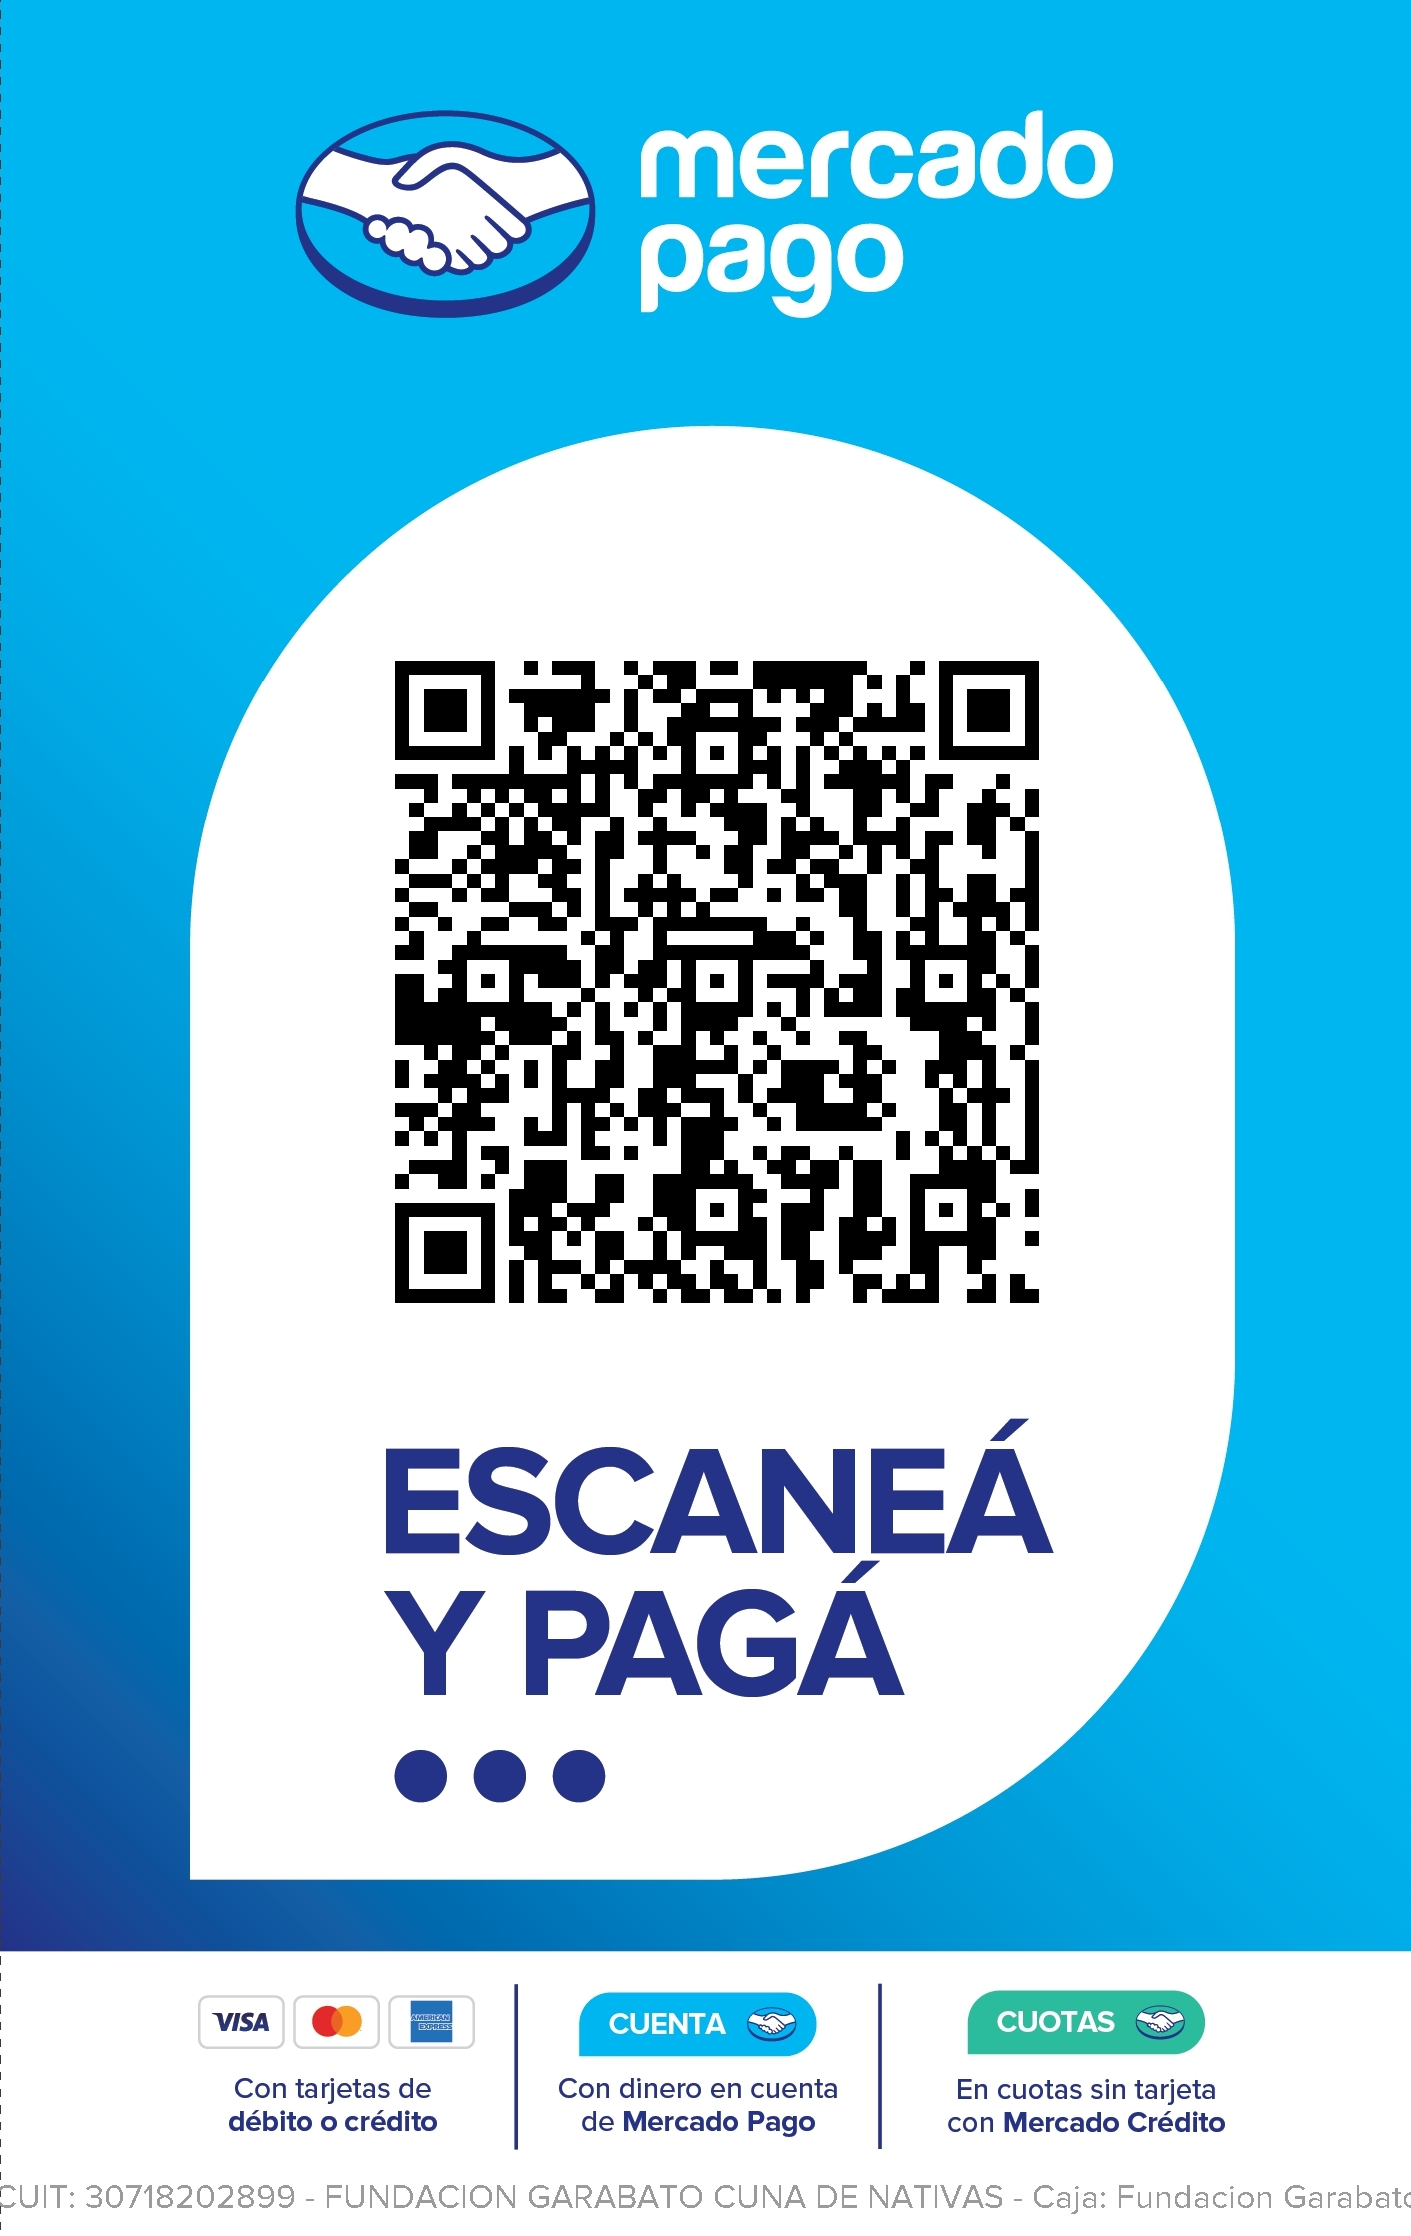
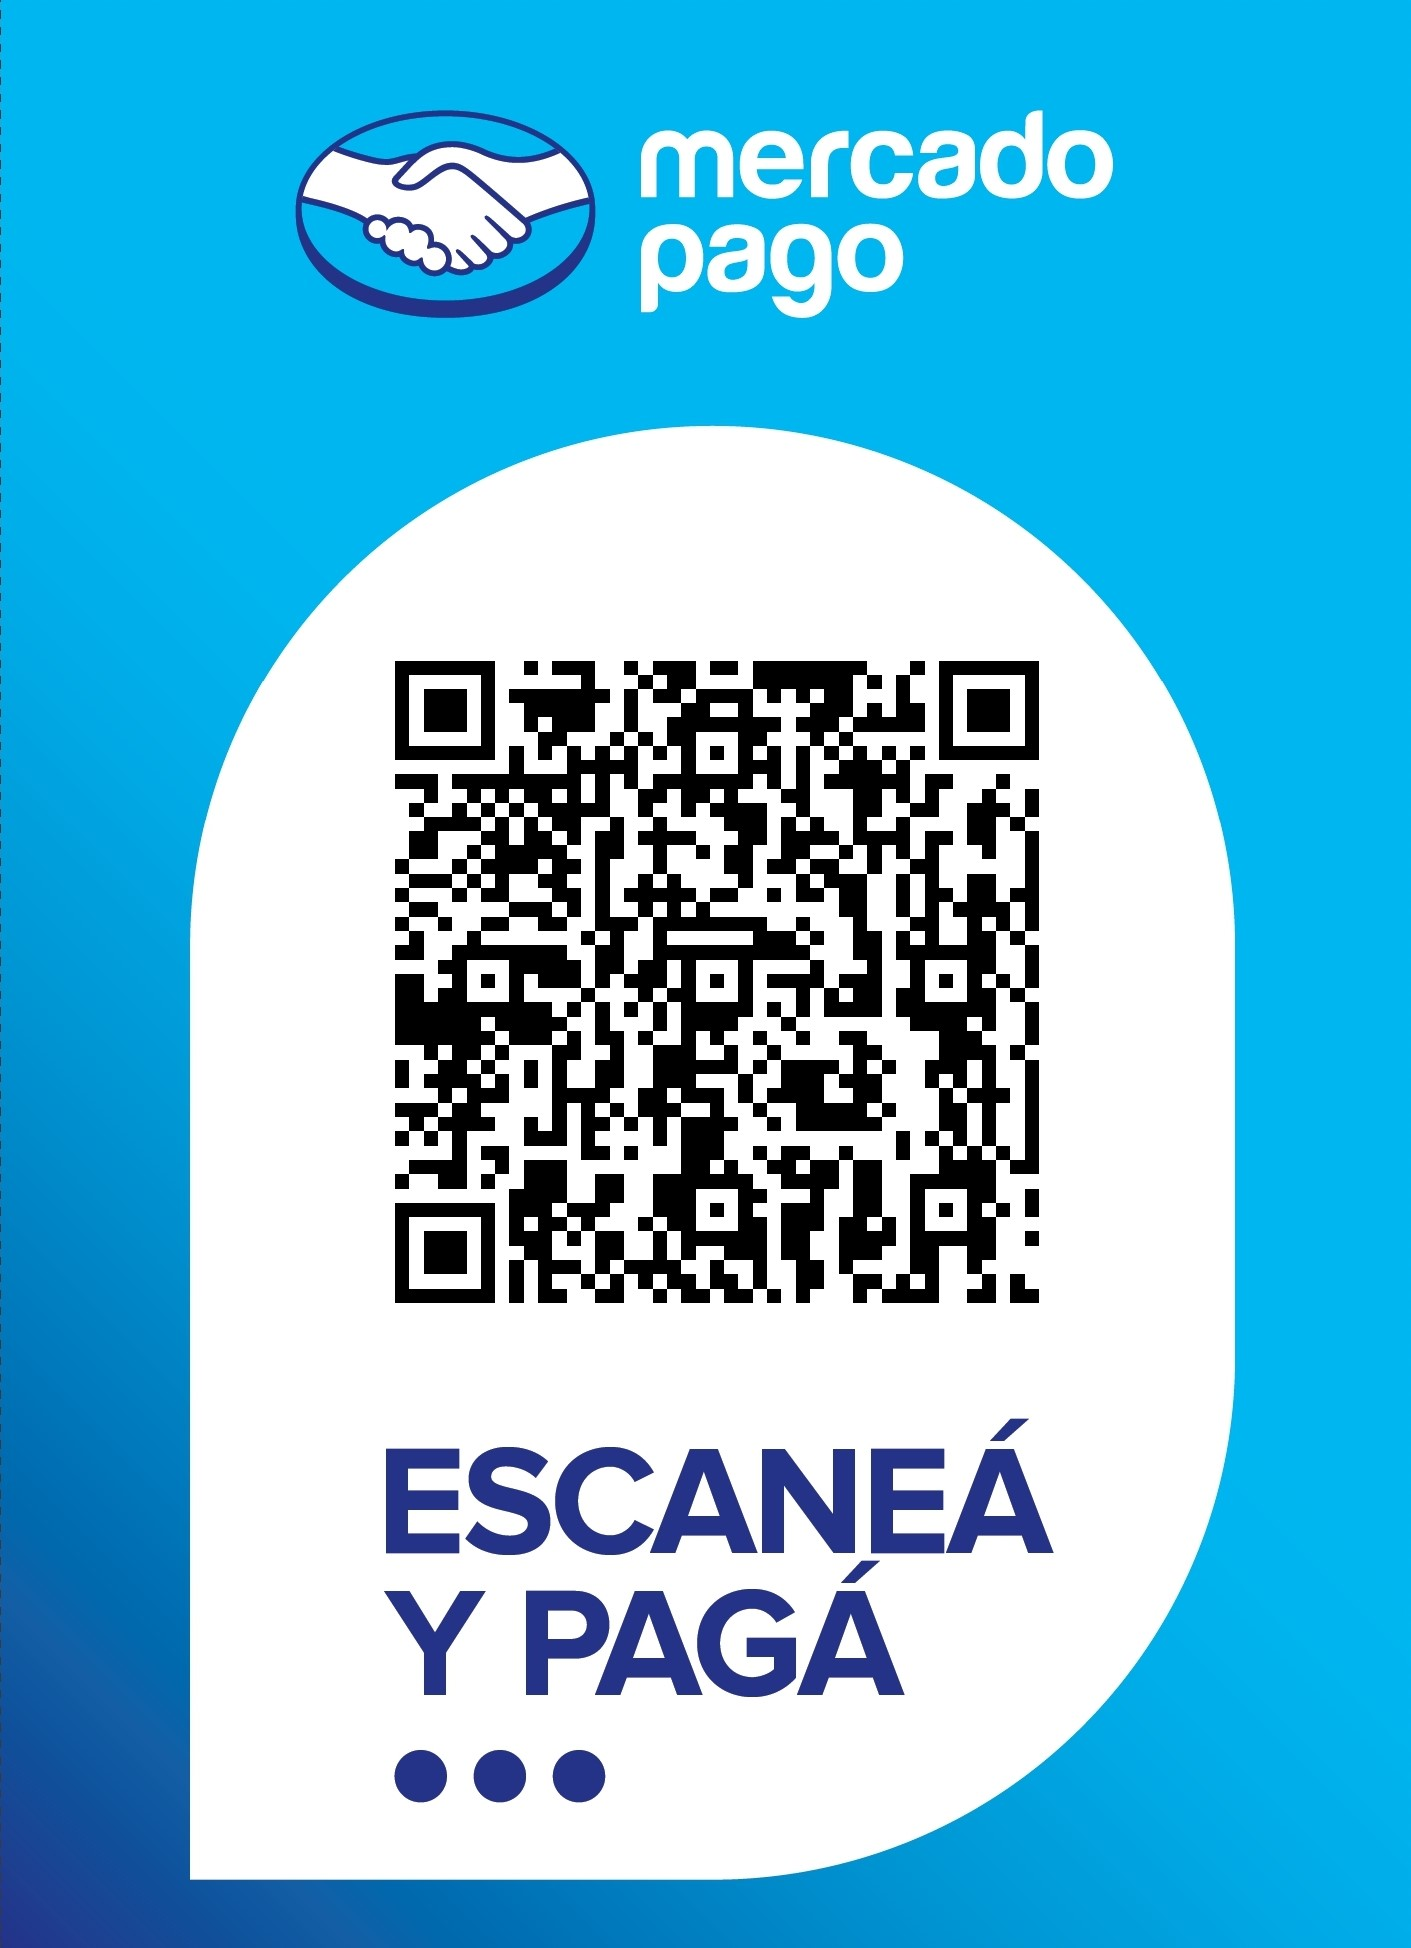
se agregan cambios a pagina qr

diff --git a/donar_otro_monto.html b/donar_otro_monto.html
@@ -45,15 +45,44 @@
 
         <div class="figure-sumate">
 
-            <div class="card-seccion-sumate" id="card3">
+            <div class="card-seccion-sumate" >
 
-
-
-                <img src="imgs/reforestacion 3.jpg" alt="imagen card 3">
+                <img src="imgs/quiero-ser-voluntario.jpg">
 
                 <div class="overlay">
+                    <p style="font-weight: bold; color: #276150; padding: 20px; margin: 0; ">
+                        Escaneando el código QR de mercado pago (desde la app de mercado pago o de tu banco) podes donar el monto que vos desees 🙌
+                    </p>
 
-                    <img src="imgs/qr-mercado-pago.jpg" alt="qr-mercado-pago">
+                    <img class="imgs-card-unico-monto" src="imgs/qr-mercado-pago.jpg" alt="qr-mercado-pago">
+                    
+                </div>
+
+                <!-- Pie de página -->
+
+                <div class="pie-de-pagina">
+
+                    <p
+                        style="font-weight: bold; color: #fff; text-transform: uppercase; letter-spacing: 2 px; padding: 18px;">
+                        QUIERO DONAR OTRO MONTO 
+                    </p>
+
+                </div>
+
+
+
+            </div>
+
+            <div class="card-seccion-sumate">
+
+                <img src="imgs/Vivirsmo nuevo.jpg" >
+
+                <div class="overlay">
+                    <p style="font-weight: bold; color: #276150; padding: 20px; margin: 0; ">
+                        Escaneando el código QR de credicoop podes donar el monto que vos desees 🙌
+                    </p>
+
+                    <img class="imgs-card-unico-monto" src="imgs/QR mi pago - donación única vez.jpg" alt="qr-credicoop">
                     
                 </div>
 

diff --git a/css/style.css b/css/style.css
@@ -557,6 +557,7 @@ body {
   justify-content: center;
   align-items: center;
   margin-top: 120px;
+  flex-wrap: wrap;
 }
 
 .card-seccion-sumate {
@@ -663,7 +664,6 @@ body {
   color: #083f18 !important;
   font-weight: bold;
   margin-top: 20px;
-  /* text-transform: uppercase; */
   font-size: 16px;
 }
 
@@ -697,13 +697,21 @@ body {
 
 /* FIN ESTILOS SECCION SUMATE */
 
-/* INICIO PAGINA QR MERCADO PAGO */
+/* INICIO PAGINA QR MERCADO PAGO Y CREDICOOP UNICO MONTO */
+
+.imgs-card-unico-monto{
+  opacity: 1!important;
+} 
 
 img[alt="qr-mercado-pago"]{
-  width: 400px!important;
-  height: 400px!important;
-  opacity: 1!important;
-  
+
+  width: 70%!important;
+  height: 70%!important; 
+}
+
+ img[alt="qr-credicoop"]{
+  width: 300px!important;
+  height: 300px!important; 
 }
 
 /* ESTILOS SECCION ACCIONES */
